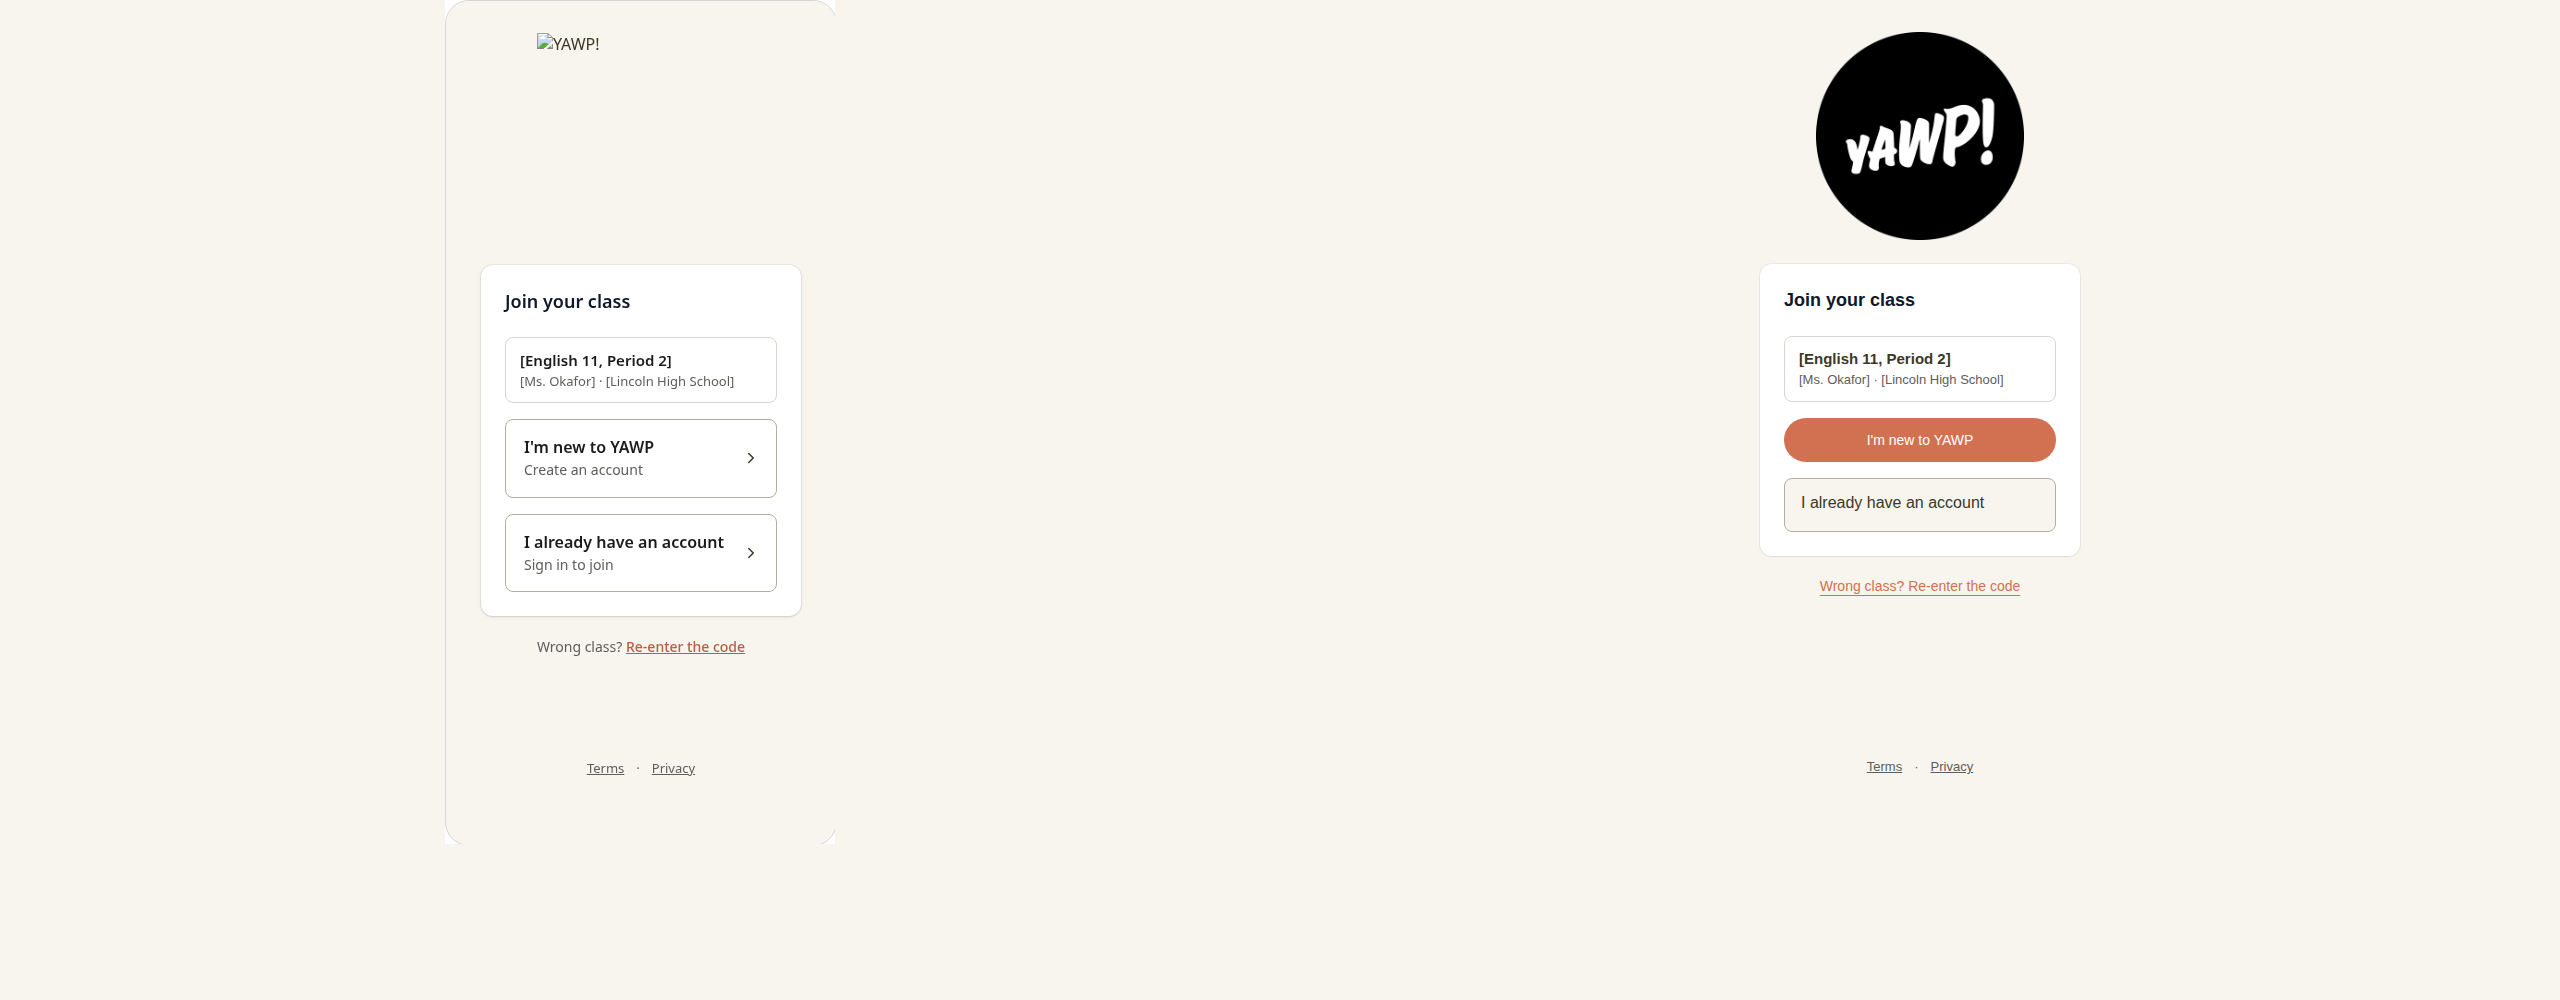
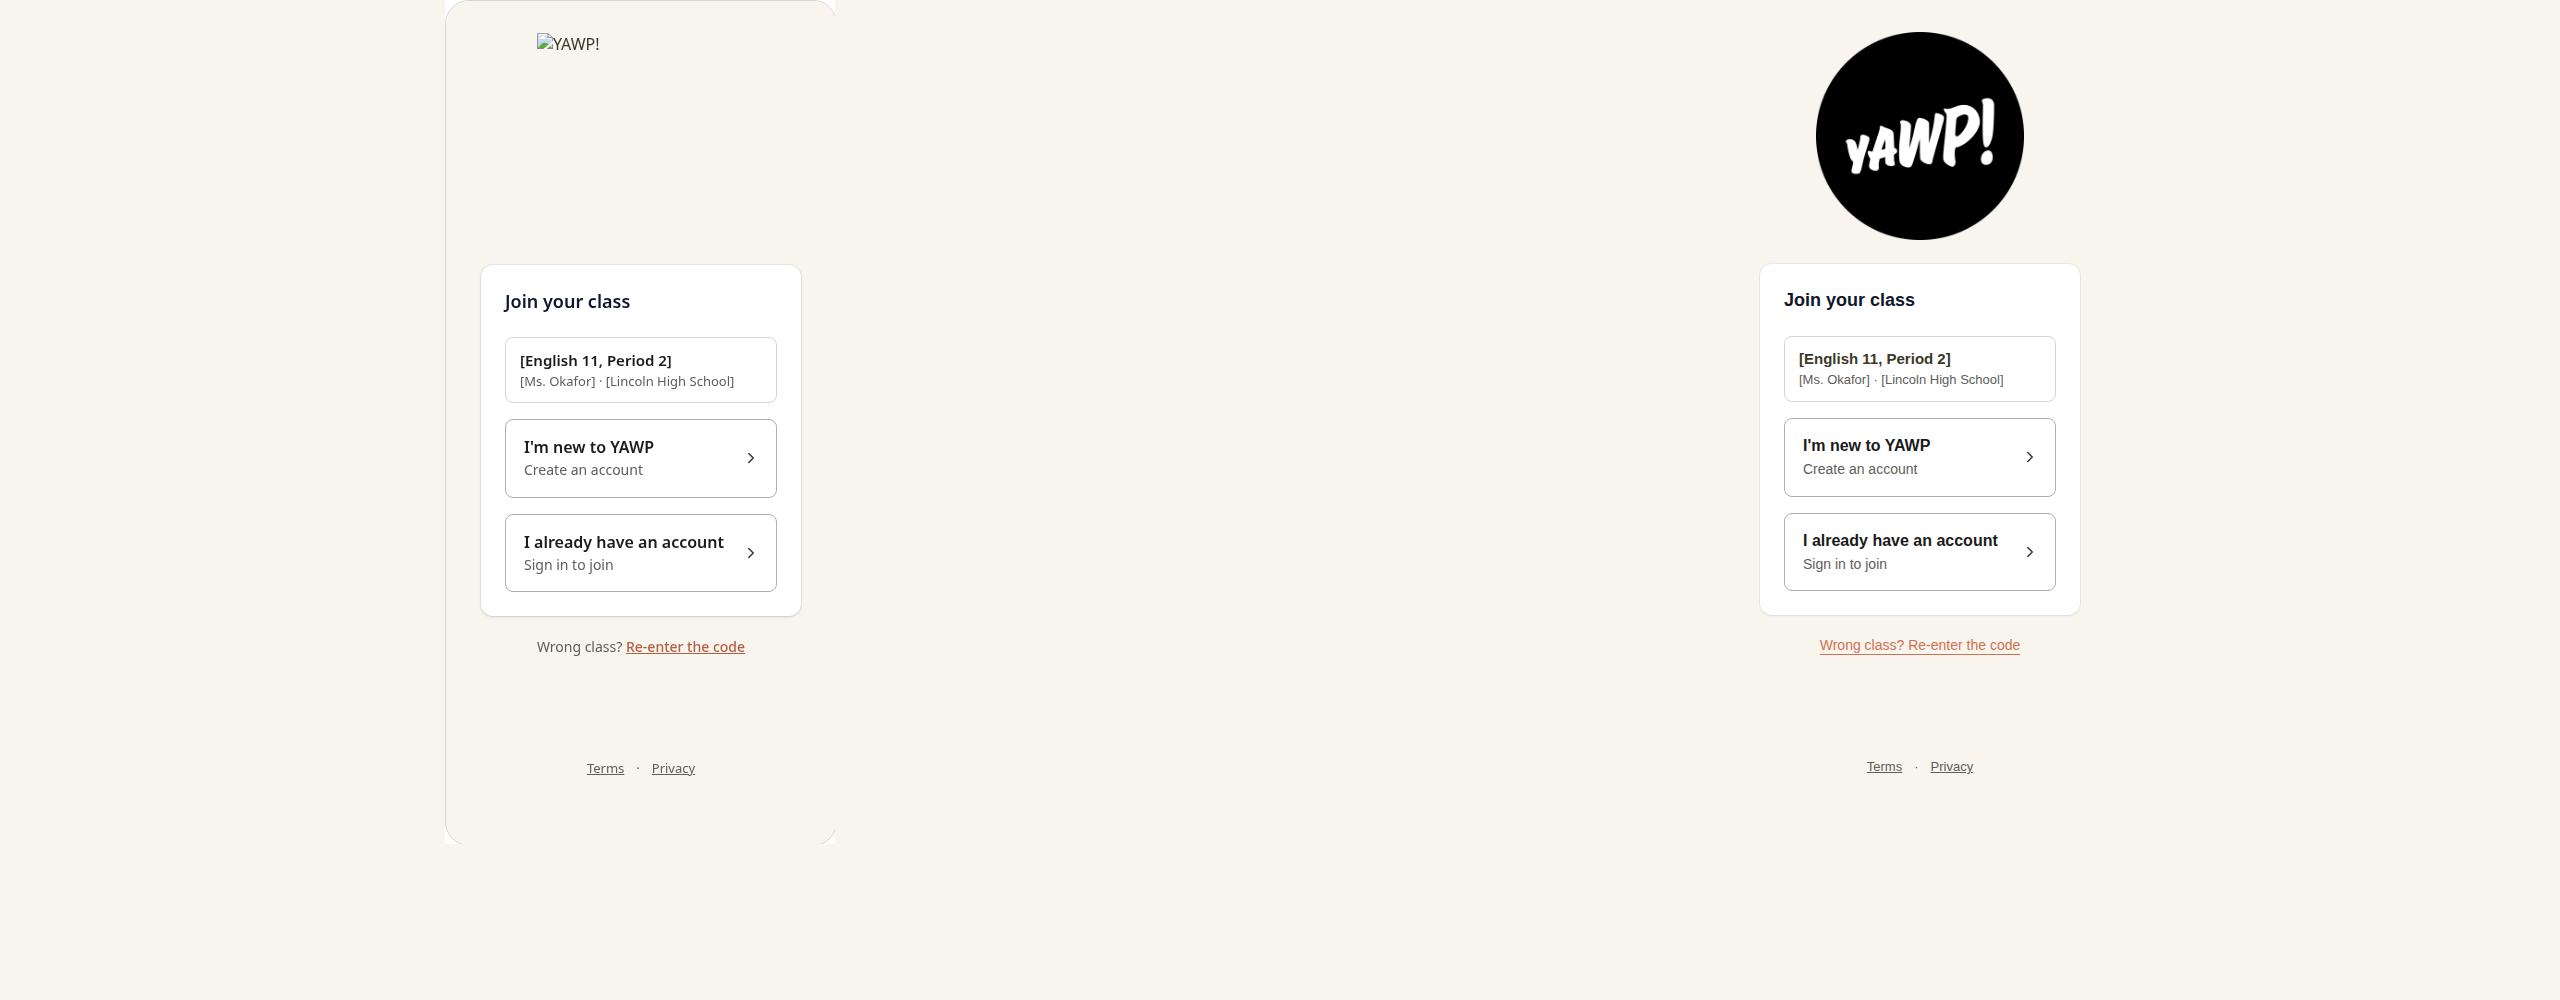
docs: refresh sign-on choice card comparisons

Changed region(s): [[0.6875, 0.403, 0.8125, 0.589], [0.7188, 0.62, 0.7812, 0.651]]

diff --git a/docs/design/unified-signon.md b/docs/design/unified-signon.md
@@ -196,3 +196,41 @@ action, with support below, matching signon-26. Student sign-out remains below.
 Regression assertions verify the native form method/action and primary styling;
 all 14 browser tests pass again after this adjustment, with the four signon-26
 viewport captures refreshed (`inactive-staff-playwright-final.log`).
+
+## Choice-card review correction (di-signon-ui)
+
+The third REJECT in `state/REVIEW.md` identified missing class-found subtitles
+and a shared choice-card layout mismatch. Account-type, class-found and
+code/handle ambiguity choices now use white outlined horizontal cards, the
+existing input-border and foreground tokens, 16px/18px padding, a 14px gap,
+two text lines separated by 2px, and an 18px decorative trailing chevron.
+Title weight/size and subtitle size/line height follow the v2 signon-09/35 DOM
+exports, with an explicit 22px title line matching the reference text height.
+Both class-found subtitles are restored verbatim: “Create an account”
+and “Sign in to join”. The new-account card calls the existing mode-aware
+transition; handle/email account paths, class context and safe destination
+retention remain covered by the existing browser regressions.
+
+Focused desktop/mobile tests check copy, outline/surface, spacing, typography,
+chevron geometry, keyboard navigation and destination screens across all three
+choice screens. The tests failed on the filled background before implementation.
+The affected 16 comparisons span signon-09/10 and classcode-03/04 (v2
+signon-35/36); earlier images are preserved under `choice-card-fixes/before/`
+in the lane evidence directory. The manifest's `choiceCardReviewFixes` links
+the comparisons and checks. Backend contracts and remote settings are unchanged.
+
+Final local validation for this correction: 90 targeted unit/route tests, project
+CLI typecheck (4 GB Node heap), and all 16 standalone Playwright tests pass with
+one worker. All 210 states/viewports were captured again and all 630 adjacent
+design/implementation/comparison files verified. The 16 affected comparisons are
+committed with this revision. Existing duplicate LTI route warnings remain.
+Prior server-backed browser checks and six flag-off comparisons remain earlier
+evidence; they were not rerun for this scoped UI correction. Hosted QA remains
+omitted under the preview ban. Repeat Ship Review and verify final CI before merge.
+
+Final comparison inspection caught an inherited 24px title line, adding 2px per
+choice card. An added assertion reproduced that difference before the 22px fix.
+All 16 browser tests and typecheck pass again after this spacing correction;
+the final browser run refreshes just the 16 affected comparisons. See
+`choice-cards-title-red.log`, `choice-cards-playwright-spacing-final.log` and
+`choice-cards-typecheck-final.log` in the lane evidence directory.
